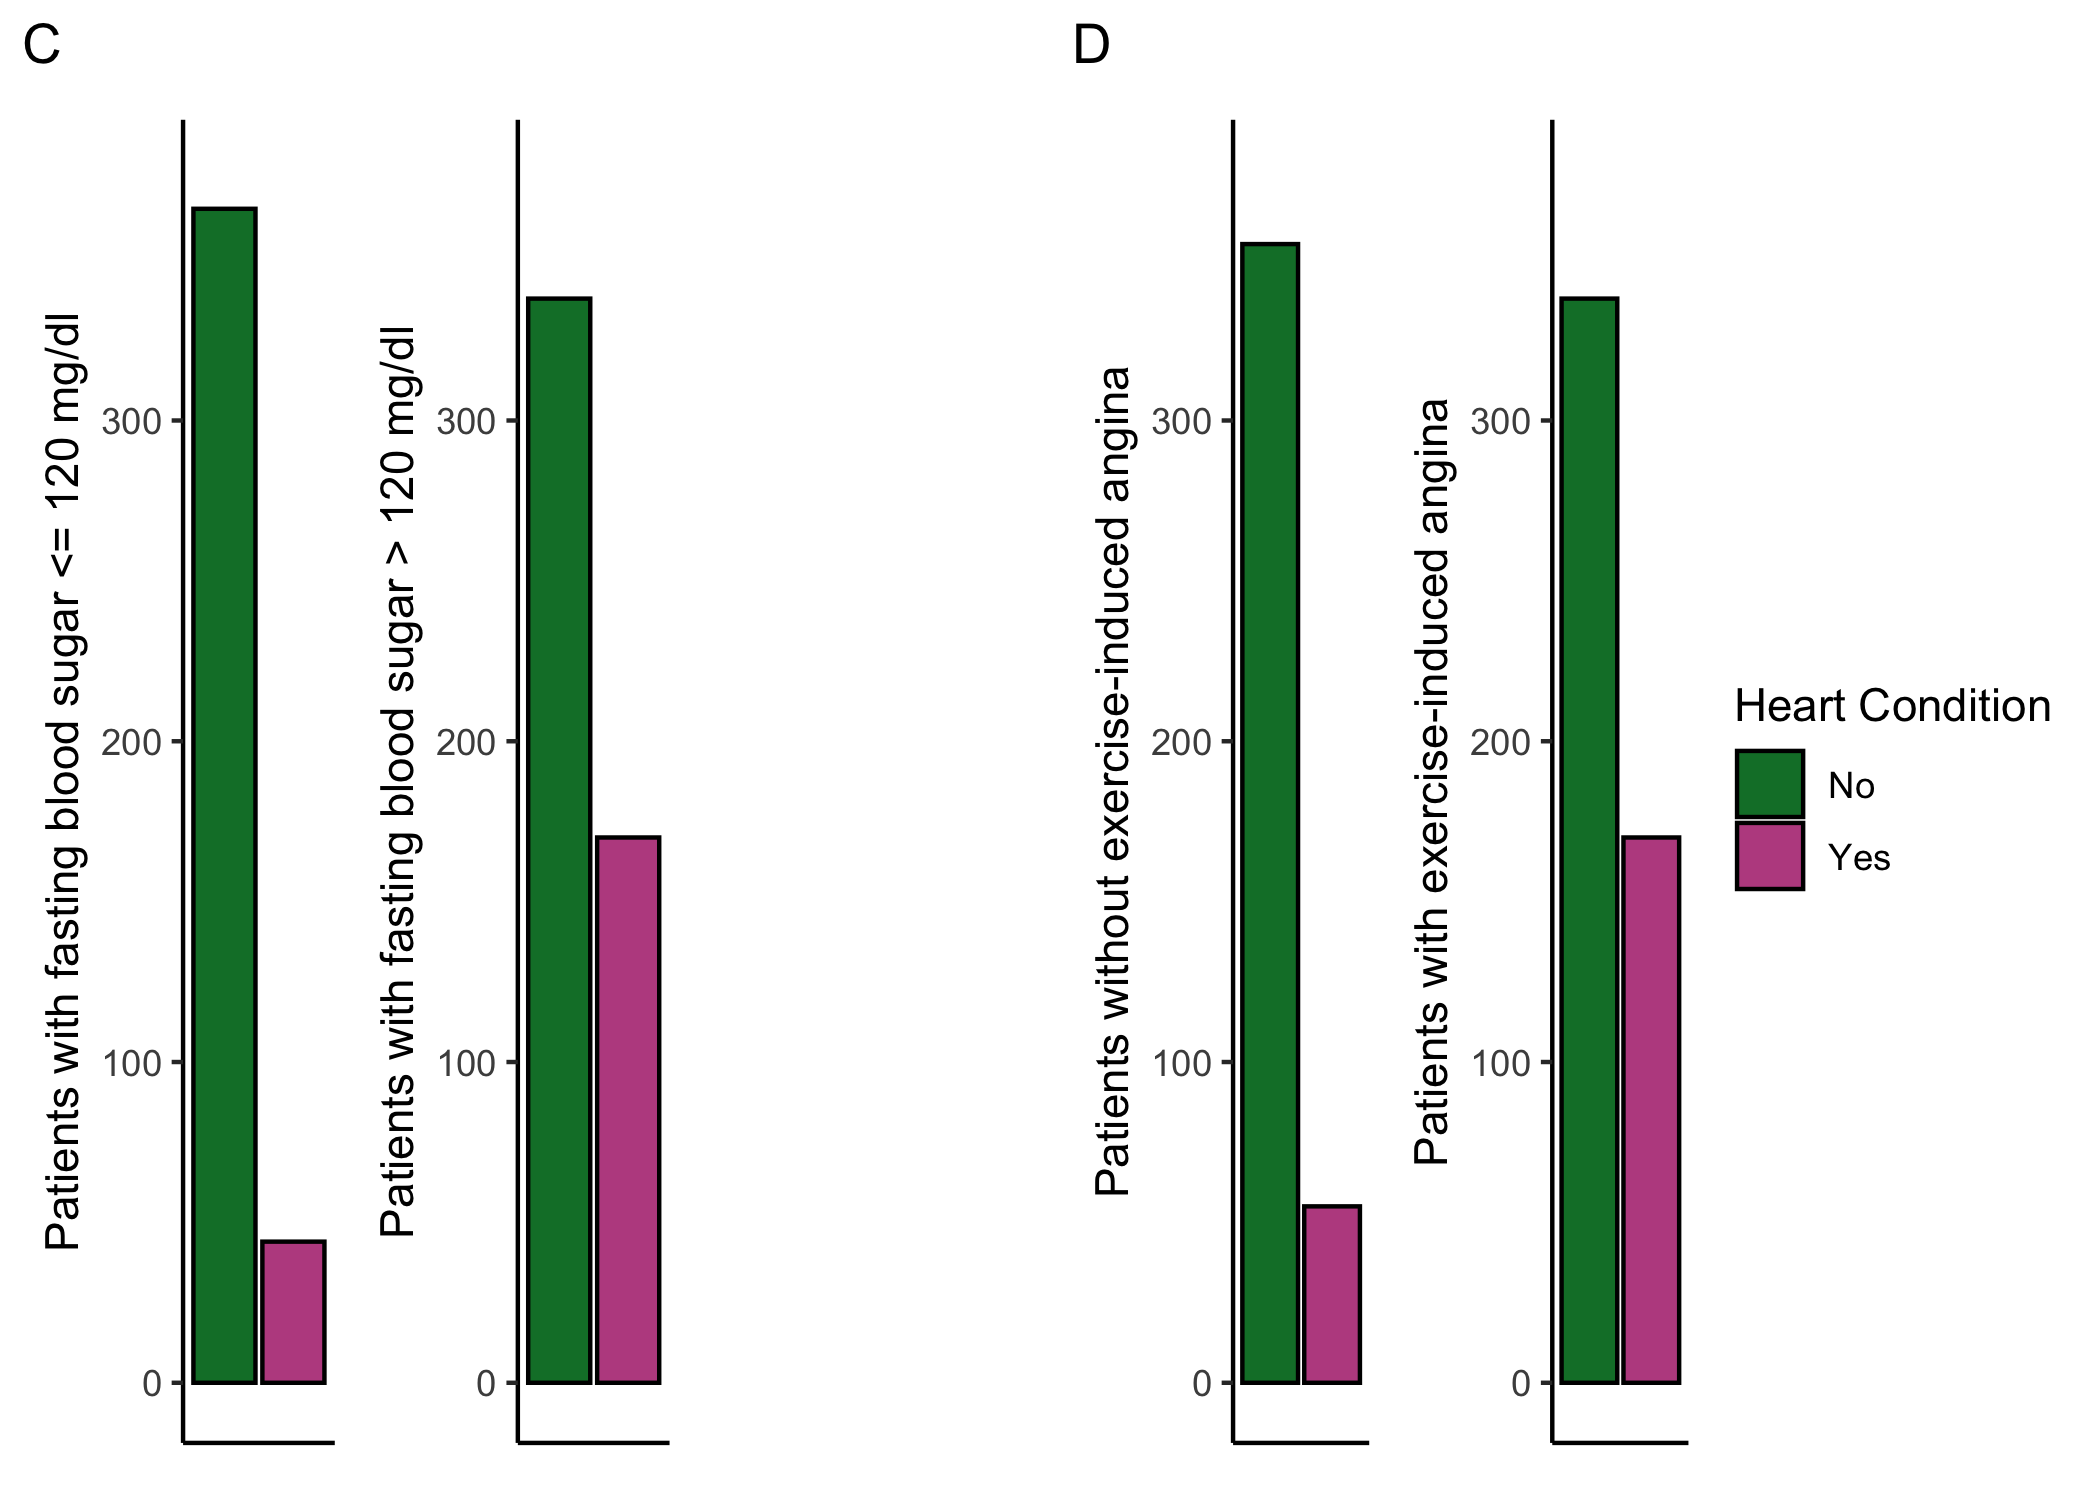
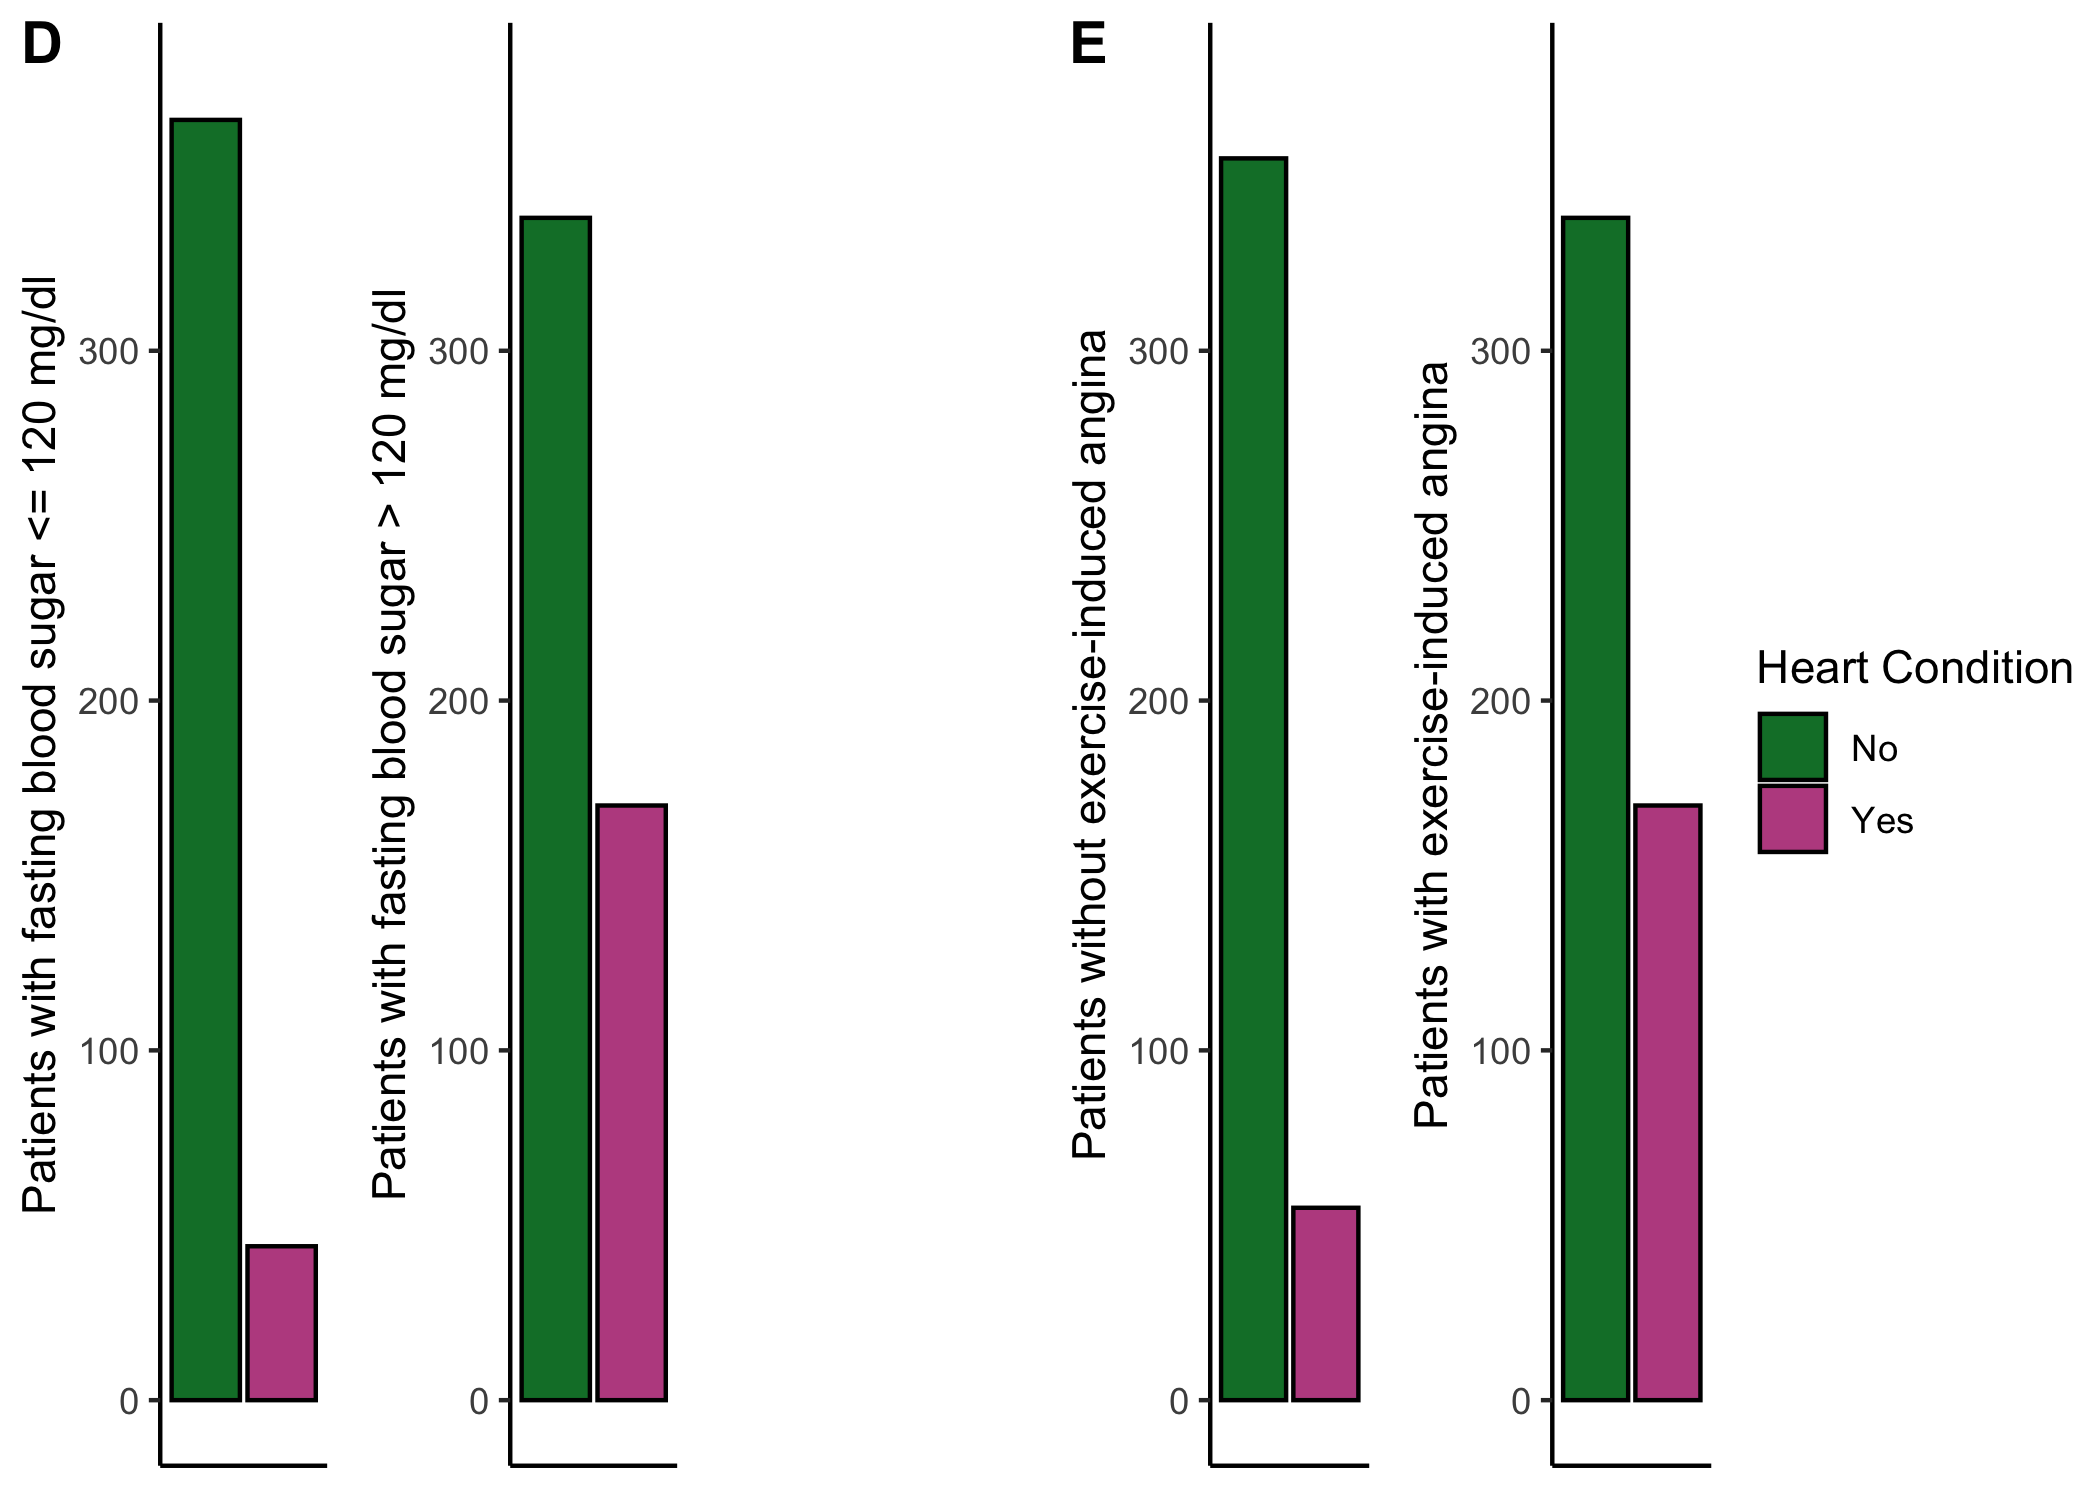
added correlation matrix and explanations

diff --git a/heart_failure_prediction.md b/heart_failure_prediction.md
@@ -1,6 +1,6 @@
 Heart Failure Prediction
 ================
-2024-09-18
+2024-09-19
 
 ``` r
 library(ggplot2)
@@ -12,6 +12,8 @@ library(dplyr)
 library(patchwork)
 library(gridExtra)
 library(ggpubr)
+library(skimr)
+library(corrplot)
 ```
 
 # Data importation and curation
@@ -38,23 +40,43 @@ different models created with the following options :
 Observe prediction results and choose the best option.
 
 ``` r
-summary(data)
+skim(data)
 ```
 
-    ##       Age        Sex     ChestPainType   RestingBP     FastingBS  RestingECG 
-    ##  Min.   :28.00   F:193   ASY:496       Min.   :  0.0   0:704     LVH   :188  
-    ##  1st Qu.:47.00   M:725   ATA:173       1st Qu.:120.0   1:214     Normal:552  
-    ##  Median :54.00           NAP:203       Median :130.0             ST    :178  
-    ##  Mean   :53.51           TA : 46       Mean   :132.4                         
-    ##  3rd Qu.:60.00                         3rd Qu.:140.0                         
-    ##  Max.   :77.00                         Max.   :200.0                         
-    ##      MaxHR       ExerciseAngina    Oldpeak        ST_Slope   HeartDisease
-    ##  Min.   : 60.0   N:547          Min.   :-2.6000   Down: 63   0:410       
-    ##  1st Qu.:120.0   Y:371          1st Qu.: 0.0000   Flat:460   1:508       
-    ##  Median :138.0                  Median : 0.6000   Up  :395               
-    ##  Mean   :136.8                  Mean   : 0.8874                          
-    ##  3rd Qu.:156.0                  3rd Qu.: 1.5000                          
-    ##  Max.   :202.0                  Max.   : 6.2000
+|                                                  |      |
+|:-------------------------------------------------|:-----|
+| Name                                             | data |
+| Number of rows                                   | 918  |
+| Number of columns                                | 11   |
+| \_\_\_\_\_\_\_\_\_\_\_\_\_\_\_\_\_\_\_\_\_\_\_   |      |
+| Column type frequency:                           |      |
+| factor                                           | 7    |
+| numeric                                          | 4    |
+| \_\_\_\_\_\_\_\_\_\_\_\_\_\_\_\_\_\_\_\_\_\_\_\_ |      |
+| Group variables                                  | None |
+
+Data summary
+
+**Variable type: factor**
+
+| skim_variable  | n_missing | complete_rate | ordered | n_unique | top_counts                           |
+|:---------------|----------:|--------------:|:--------|---------:|:-------------------------------------|
+| Sex            |         0 |             1 | FALSE   |        2 | M: 725, F: 193                       |
+| ChestPainType  |         0 |             1 | FALSE   |        4 | ASY: 496, NAP: 203, ATA: 173, TA: 46 |
+| FastingBS      |         0 |             1 | FALSE   |        2 | 0: 704, 1: 214                       |
+| RestingECG     |         0 |             1 | FALSE   |        3 | Nor: 552, LVH: 188, ST: 178          |
+| ExerciseAngina |         0 |             1 | FALSE   |        2 | N: 547, Y: 371                       |
+| ST_Slope       |         0 |             1 | FALSE   |        3 | Fla: 460, Up: 395, Dow: 63           |
+| HeartDisease   |         0 |             1 | FALSE   |        2 | 1: 508, 0: 410                       |
+
+**Variable type: numeric**
+
+| skim_variable | n_missing | complete_rate |   mean |    sd |   p0 | p25 |   p50 |   p75 |  p100 | hist  |
+|:--------------|----------:|--------------:|-------:|------:|-----:|----:|------:|------:|------:|:------|
+| Age           |         0 |             1 |  53.51 |  9.43 | 28.0 |  47 |  54.0 |  60.0 |  77.0 | ▁▅▇▆▁ |
+| RestingBP     |         0 |             1 | 132.40 | 18.51 |  0.0 | 120 | 130.0 | 140.0 | 200.0 | ▁▁▃▇▁ |
+| MaxHR         |         0 |             1 | 136.81 | 25.46 | 60.0 | 120 | 138.0 | 156.0 | 202.0 | ▁▃▇▆▂ |
+| Oldpeak       |         0 |             1 |   0.89 |  1.07 | -2.6 |   0 |   0.6 |   1.5 |   6.2 | ▁▇▆▁▁ |
 
 ``` r
 summary(data$RestingBP)
@@ -260,24 +282,160 @@ palette <- c("#0c7d34", "#bc5090")
 Oldpeak_0 <- data.frame(data$Oldpeak, data$HeartDisease)
 
 Oldpeak_plot <- ggplot(data=Oldpeak_0, aes(x=data.Oldpeak, group=data.HeartDisease, fill=data.HeartDisease)) +
-    geom_density(adjust=1, alpha=.5) +
+    geom_density(adjust=1, alpha=0.5) +
     theme_classic() + 
     scale_fill_manual(name = "Heart Condition", values = palette) + 
-    labs(title = "ST depression value mesured", x = "Value", y = "Density") +
+    labs(title = "", x = "ST depression value mesured", y = "") +
     theme(plot.title = element_text(hjust = 0.5)) + 
     scale_fill_manual(name = "Heart Condition", values = custom_colors, labels = c("No", "Yes"))
 
-
 ######################
-# Add graph identifer
+# Merge plots
 
-age_distribution_sex <- age_distribution_sex + plot_annotation(title = 'A')
-boxplots <- ggarrange(restingBP_boxplot, max_heart_rate_boxplot, ncol=2, nrow=1, common.legend = TRUE, legend="bottom") + plot_annotation(title = 'B')
-fasting <- ggarrange(fasting_plot_0, fasting_plot_1, ncol=3, nrow=1, common.legend = TRUE, legend="none") + plot_annotation(title = 'C')
-angina <- ggarrange(exercice_angina_plot_0, exercice_angina_plot_1, ncol=2, nrow=1, common.legend = TRUE, legend="right") + plot_annotation(title = 'D')
-chest_pain_plot <- chest_pain_plot + plot_annotation(title = 'E')
-resting_ecg_plot <- resting_ecg_plot + plot_annotation(title = 'F')
-st_slope_plot <- st_slope_plot +  plot_annotation(title = 'G')
+boxplots <- ggarrange(restingBP_boxplot, max_heart_rate_boxplot, ncol=2, nrow=1, common.legend = TRUE, legend="bottom", labels = c("B", "C")) 
+fasting <- ggarrange(fasting_plot_0, fasting_plot_1, ncol=3, nrow=1, common.legend = TRUE, legend="none")
+angina <- ggarrange(exercice_angina_plot_0, exercice_angina_plot_1, ncol=2, nrow=1, common.legend = TRUE, legend="right")
 ```
 
-![](heart_failure_prediction_files/figure-gfm/unnamed-chunk-8-1.png)<!-- -->![](heart_failure_prediction_files/figure-gfm/unnamed-chunk-8-2.png)<!-- -->![](heart_failure_prediction_files/figure-gfm/unnamed-chunk-8-3.png)<!-- -->
+**Figures**:
+
+- **A.** Age distribution by sex
+- **B.** Resting blood pressure \[mm Hg\]
+- **C.** Maximum heart rate achieved \[Beats per minute\]
+- **D.** Count of patients with fasting blood sugar above and below 120
+  mg/dl
+- **E.** Count of patients with and without exercise-induced angina
+- **F.** Distribution of chest pain type (%)
+- **G.** Distribution of resting electrocardiogram results \[Normal:
+  Normal, ST: having ST-T wave abnormality (T wave inversions and/or ST
+  elevation or depression of \> 0.05 mV), LVH: showing probable or
+  definite left ventricular hypertrophy by Estes’ criteria\] (%)
+- **H.** Distribution of the slope of the peak exercise ST segment (%)
+- **I.** Density of oldpeak ST \[Numeric value measured in depression\]
+
+``` r
+# Adding labels
+ggarrange(age_distribution_sex, boxplots, ncol = 2, nrow = 1, labels = c("A"))
+```
+
+![](heart_failure_prediction_files/figure-gfm/unnamed-chunk-8-1.png)<!-- -->
+
+``` r
+ggarrange(fasting, angina, ncol=2, nrow=1, labels = c("D", "E")) 
+```
+
+![](heart_failure_prediction_files/figure-gfm/unnamed-chunk-8-2.png)<!-- -->
+
+``` r
+ggarrange(chest_pain_plot, resting_ecg_plot, st_slope_plot, ncol=3, nrow=1, labels = c("F", "G", "H"))
+```
+
+![](heart_failure_prediction_files/figure-gfm/unnamed-chunk-8-3.png)<!-- -->
+
+``` r
+ggarrange(Oldpeak_plot, ncol=1, nrow=1, labels = c("I"))
+```
+
+![](heart_failure_prediction_files/figure-gfm/unnamed-chunk-8-4.png)<!-- -->
+
+At first glance, we can clearly see a surepresentation of Male within
+the data, and a sample age tending toward 55 years old (Fig. A). The
+boxplot showing the resting blood pressure (Fig. B) doesn’t visually
+give the impression having a link with heart diseases, contrary to the
+plot of the maximum heart rate achieved (Fig. C). To confirm or infirm
+our observation, we can statistically prove or not the correlation.
+
+Before that, we have to test if the Resting blood pressure results and
+maximum heart rate achieved follow a normal distribution.
+
+``` r
+shapiro.test(data$RestingBP) 
+```
+
+    ## 
+    ##  Shapiro-Wilk normality test
+    ## 
+    ## data:  data$RestingBP
+    ## W = 0.97127, p-value = 1.743e-12
+
+``` r
+shapiro.test(data$MaxHR)
+```
+
+    ## 
+    ##  Shapiro-Wilk normality test
+    ## 
+    ## data:  data$MaxHR
+    ## W = 0.99267, p-value = 0.0001683
+
+Both p-value are below 0.05, so we can conclude they do not follow a
+normal distribution, and we will have to perform non-parametric
+correlation test (Spearman).
+
+``` r
+cor.test(data$RestingBP, as.numeric(data$HeartDisease), method = "spearman", exact = FALSE)
+```
+
+    ## 
+    ##  Spearman's rank correlation rho
+    ## 
+    ## data:  data$RestingBP and as.numeric(data$HeartDisease)
+    ## S = 113979002, p-value = 0.0004284
+    ## alternative hypothesis: true rho is not equal to 0
+    ## sample estimates:
+    ##       rho 
+    ## 0.1160075
+
+``` r
+cor.test(data$MaxHR, as.numeric(data$HeartDisease), method = "spearman", exact = FALSE)
+```
+
+    ## 
+    ##  Spearman's rank correlation rho
+    ## 
+    ## data:  data$MaxHR and as.numeric(data$HeartDisease)
+    ## S = 181133616, p-value < 2.2e-16
+    ## alternative hypothesis: true rho is not equal to 0
+    ## sample estimates:
+    ##        rho 
+    ## -0.4048268
+
+The hypothesis H0 for cor.test is : There is no association between the
+two variables. However, in both case, p-value \< 0.05, so we rejet the
+nul hypothesis. It can be concluded that both RestingBP and MaxHR do
+have a correclation with heart diseases. The correlation coefficient is
+around 0.12 for RestingBP, and -0.40 for MaxHR. Therefore, MaxHR has a
+higher impact on heart diseases than RestingBP.
+
+A higher amount of patients can be seen with high fasting blood sugar
+\[\>120 mg/dl\] and exercice-induces angina among heart disease victims
+(Fig. D and Fig. E), both could be an important factor.
+
+From Fig. F, patients affected by heart diseases don’t have any chest
+pain (asymptomatic) and generally a flat slope of the peak exercise
+(Fig. H).
+
+Finally, Fig. I indicates that most of the patients without heart
+condition hasn’t ST depression on their electrocardiogram results, when
+the ST segment is abnormally low below the baseline, it could be linked
+with heart diseases.
+
+To have a better understanding if some variable are correlated between
+each others, we can generate a correlation matrix and observe the
+correlation values between each conditions.
+
+``` r
+######################
+# Correlation matrix
+
+table <- data.frame(as.numeric(data$Sex), data$Age, data$RestingBP, data$MaxHR, data$Oldpeak, as.numeric(data$FastingBS), as.numeric(data$ExerciseAngina), as.numeric(data$RestingECG))
+names(table) <- c("Sex", "Age", "Resting BP", "Max HR", "Oldpeak", "FastingBS", "Exercice Angina", "Resting ECG")
+red <- cor(table)
+correlation_matrix <- corrplot(red, method="color", type="lower", addCoef.col = T,
+         col = colorRampPalette(c("#446455", "#FDD262", "#D3DDDC"))(100),
+         tl.col = "black", tl.srt = 45)
+```
+
+![](heart_failure_prediction_files/figure-gfm/unnamed-chunk-11-1.png)<!-- -->
+
+# Model creation
